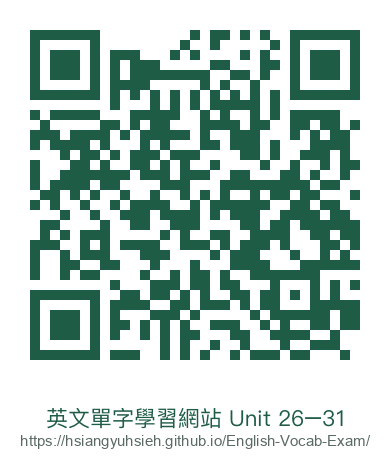
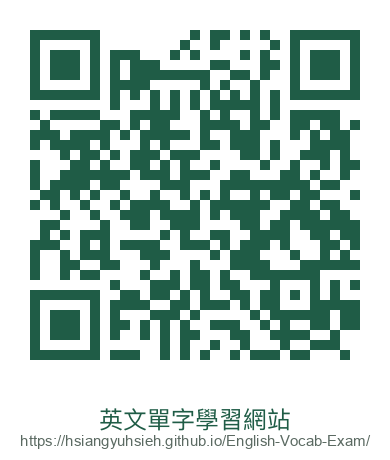
移除寫死的 Unit 26-31 字樣，改為動態產生
之後新增 Unit 內容時，標題/副標題會自動反映目前涵蓋的單元範圍，
不需要手動修改。QR Code 圖片說明文字也一併移除固定單元範圍。

Changed region(s): [[0.1231, 0.8826, 0.8923, 0.9435]]

diff --git a/app.js b/app.js
@@ -9,9 +9,18 @@
   const startQuizBtn = document.getElementById('startQuiz');
   const quizViewEl = document.getElementById('quizView');
   const toolbarEl = document.querySelector('.toolbar');
+  const subtitleEl = document.getElementById('subtitle');
 
   let currentUnit = units[0].unit;
   let showExamples = true;
+
+  (function setSubtitle() {
+    const unitNumbers = units.map((u) => u.unit);
+    const min = Math.min(...unitNumbers);
+    const max = Math.max(...unitNumbers);
+    const range = min === max ? `Unit ${min}` : `Unit ${min} – ${max}`;
+    subtitleEl.textContent = range + ' ・ ' + subtitleEl.textContent;
+  })();
 
   function escapeHtml(str) {
     return String(str)

diff --git a/index.html b/index.html
@@ -3,13 +3,13 @@
 <head>
 <meta charset="UTF-8">
 <meta name="viewport" content="width=device-width, initial-scale=1.0">
-<title>英文單字學習網站 Unit 26–31</title>
+<title>英文單字學習網站</title>
 <link rel="stylesheet" href="style.css">
 </head>
 <body>
 <header class="site-header">
   <h1>英文單字學習網站</h1>
-  <p class="subtitle">Unit 26 – 31 ・ 單字・音標・詞性・中文意思・例句中英對照</p>
+  <p class="subtitle" id="subtitle">單字・音標・詞性・中文意思・例句中英對照</p>
 </header>
 
 <nav class="unit-tabs" id="unitTabs"></nav>
